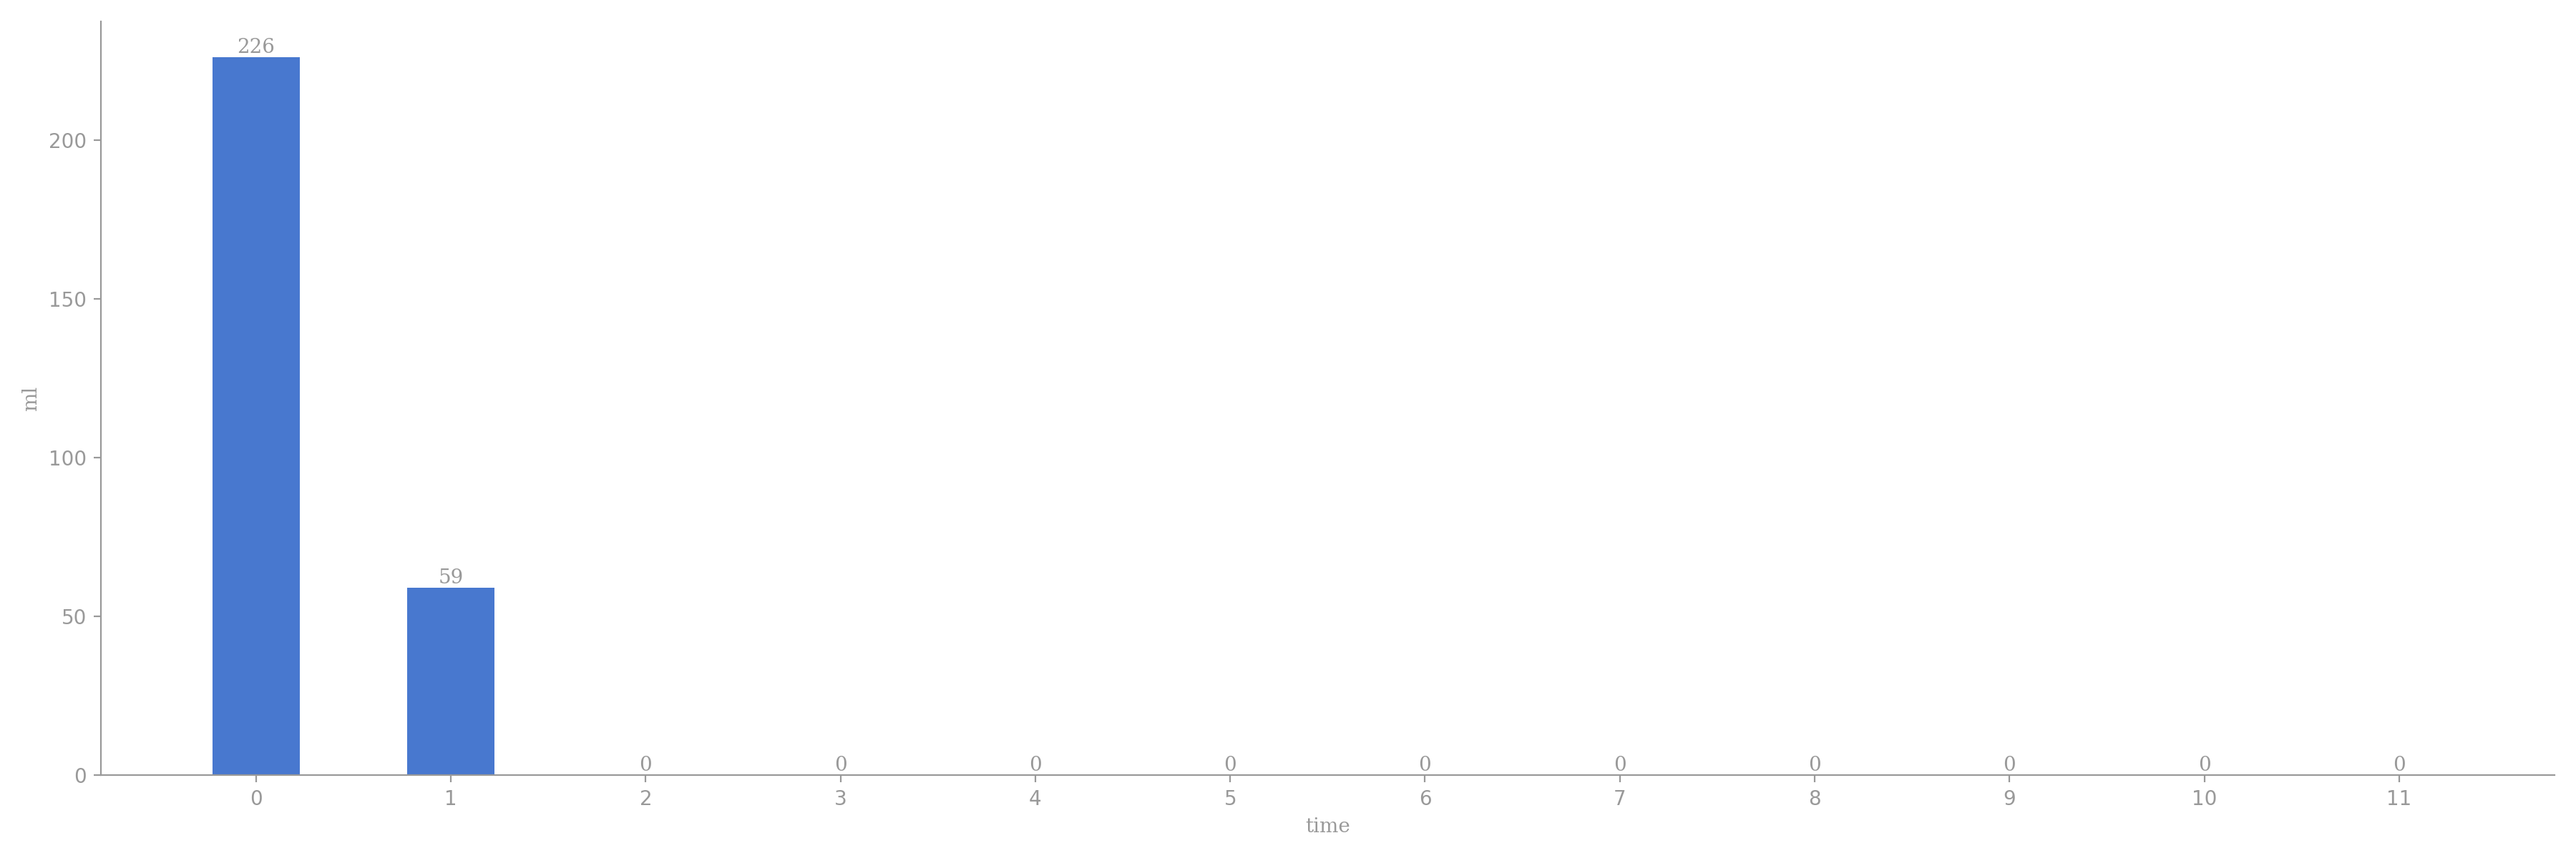
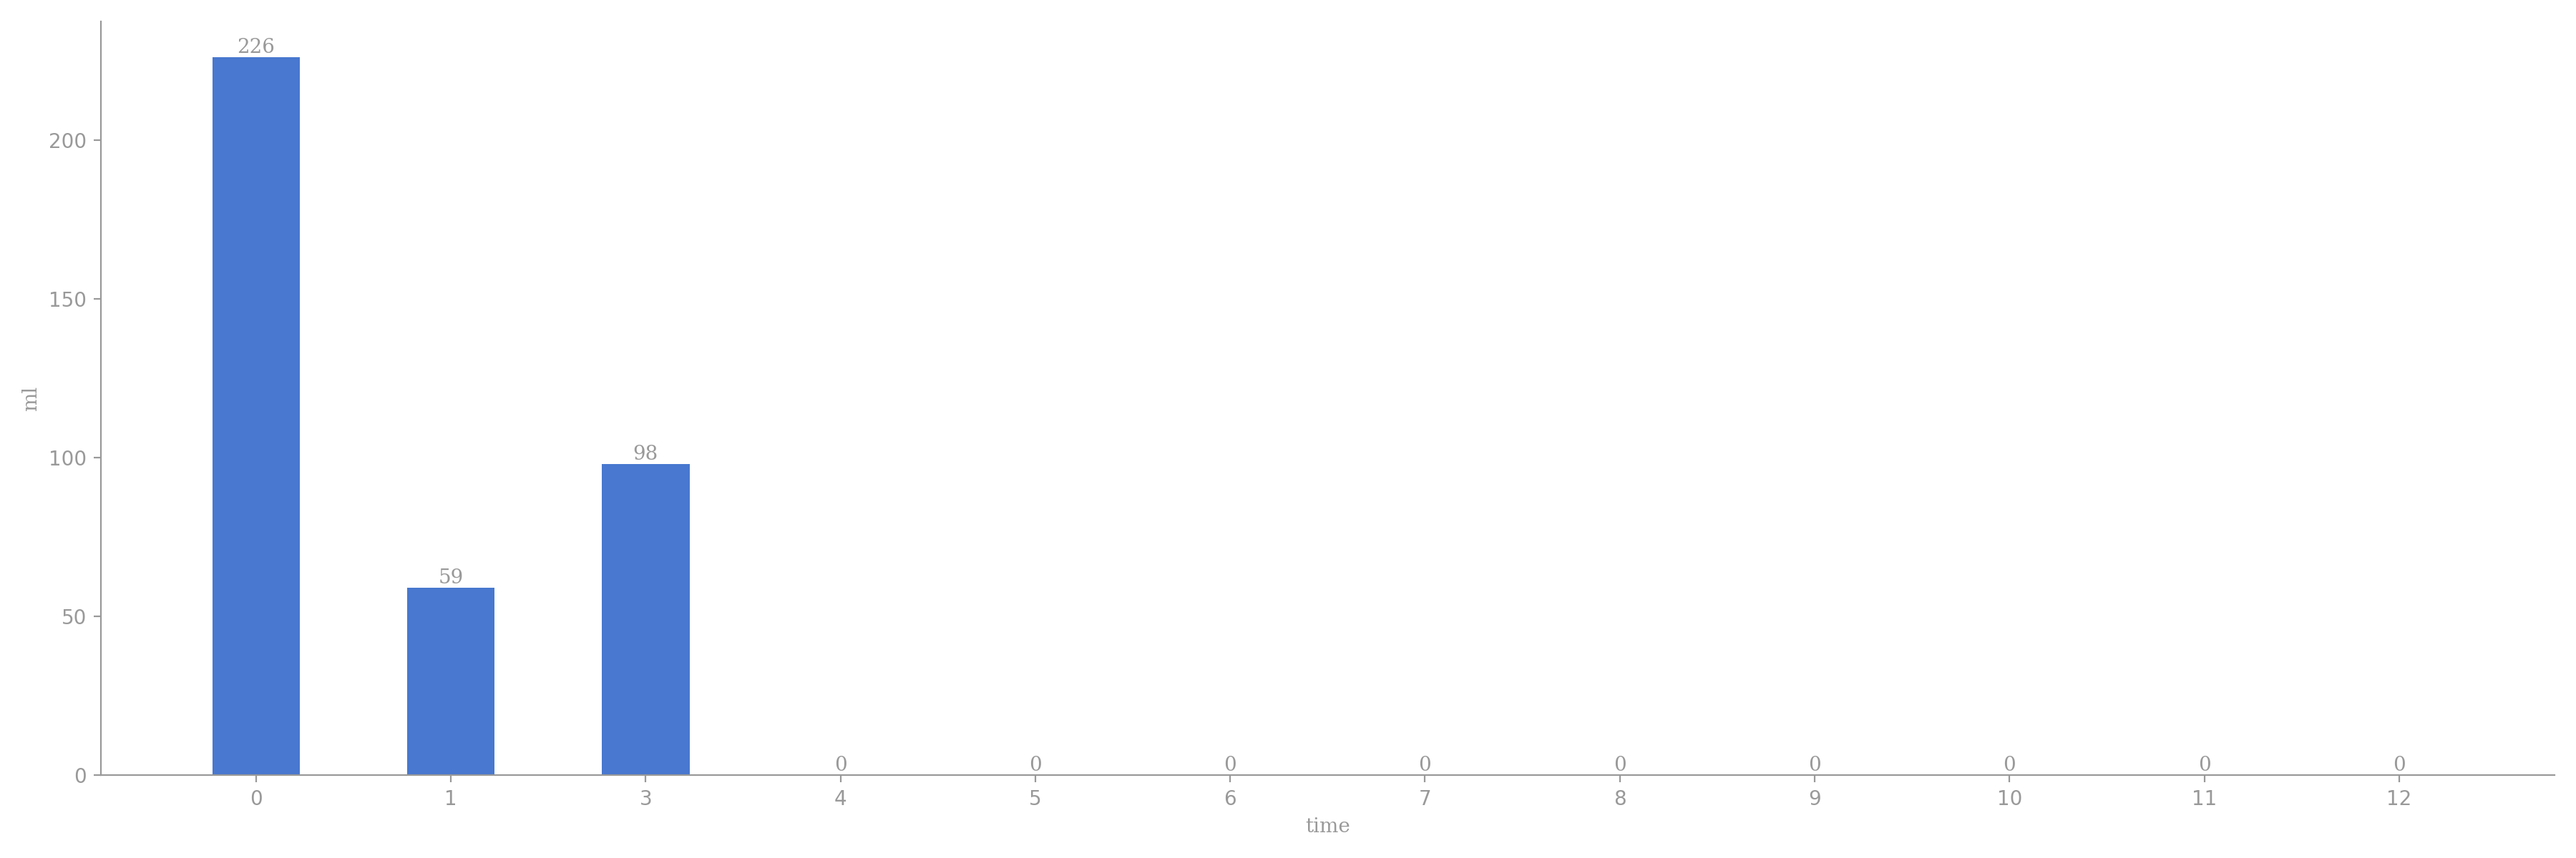
generated readme

Changed region(s): [[0.2178, 0.5242, 0.28, 0.925]]

diff --git a/README.md b/README.md
@@ -5,12 +5,12 @@
 
 | 今日总饮水量 | 每小时平均饮水量 |
 | :----: | :----: |
-| 285 | 142 |
+| 383 | 127 |
 </div>
 
-| 日期 | 00:09:48 | 00:35:18 | 01:30:13 |
-| :----: | :----: | :----: | :----: |
-| 2024-08-17 | 143 | 83 | 59 |
+| 日期 | 00:09:48 | 00:35:18 | 01:30:13 | 03:00:25 |
+| :----: | :----: | :----: | :----: | :----: |
+| 2024-08-17 | 143 | 83 | 59 | 98 |
 
 # 近30日饮水数据
 
